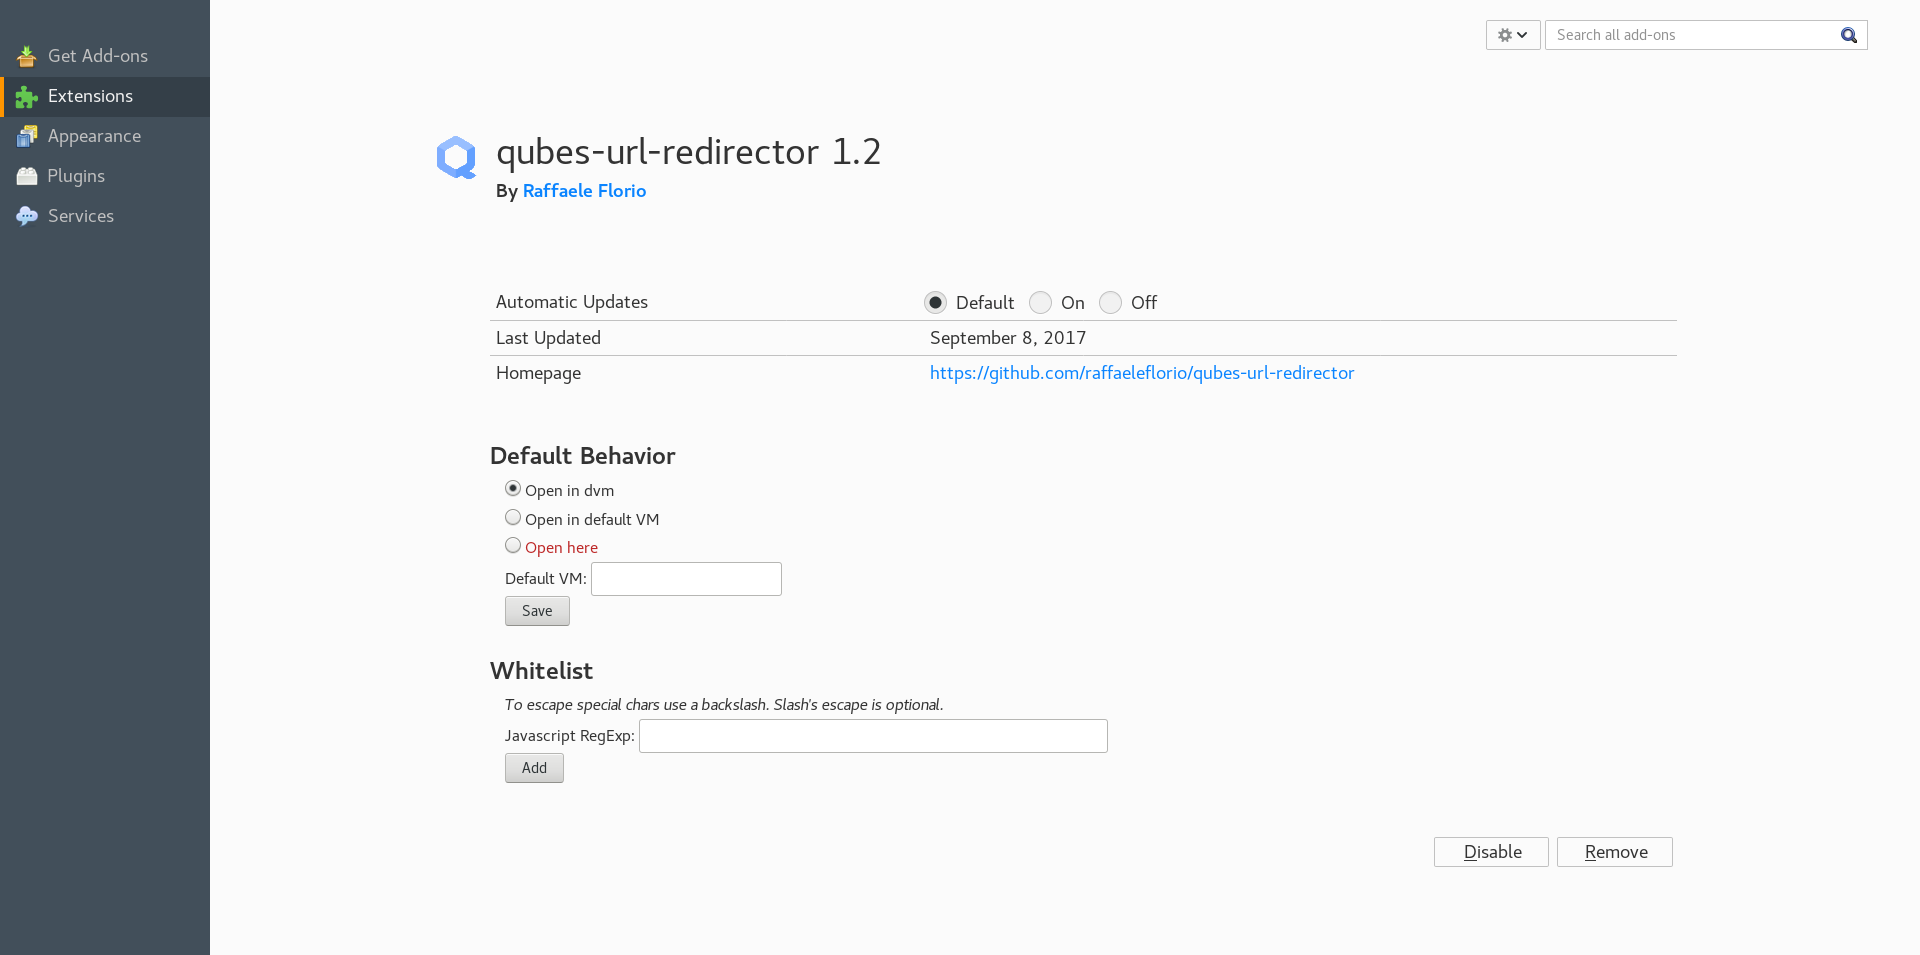
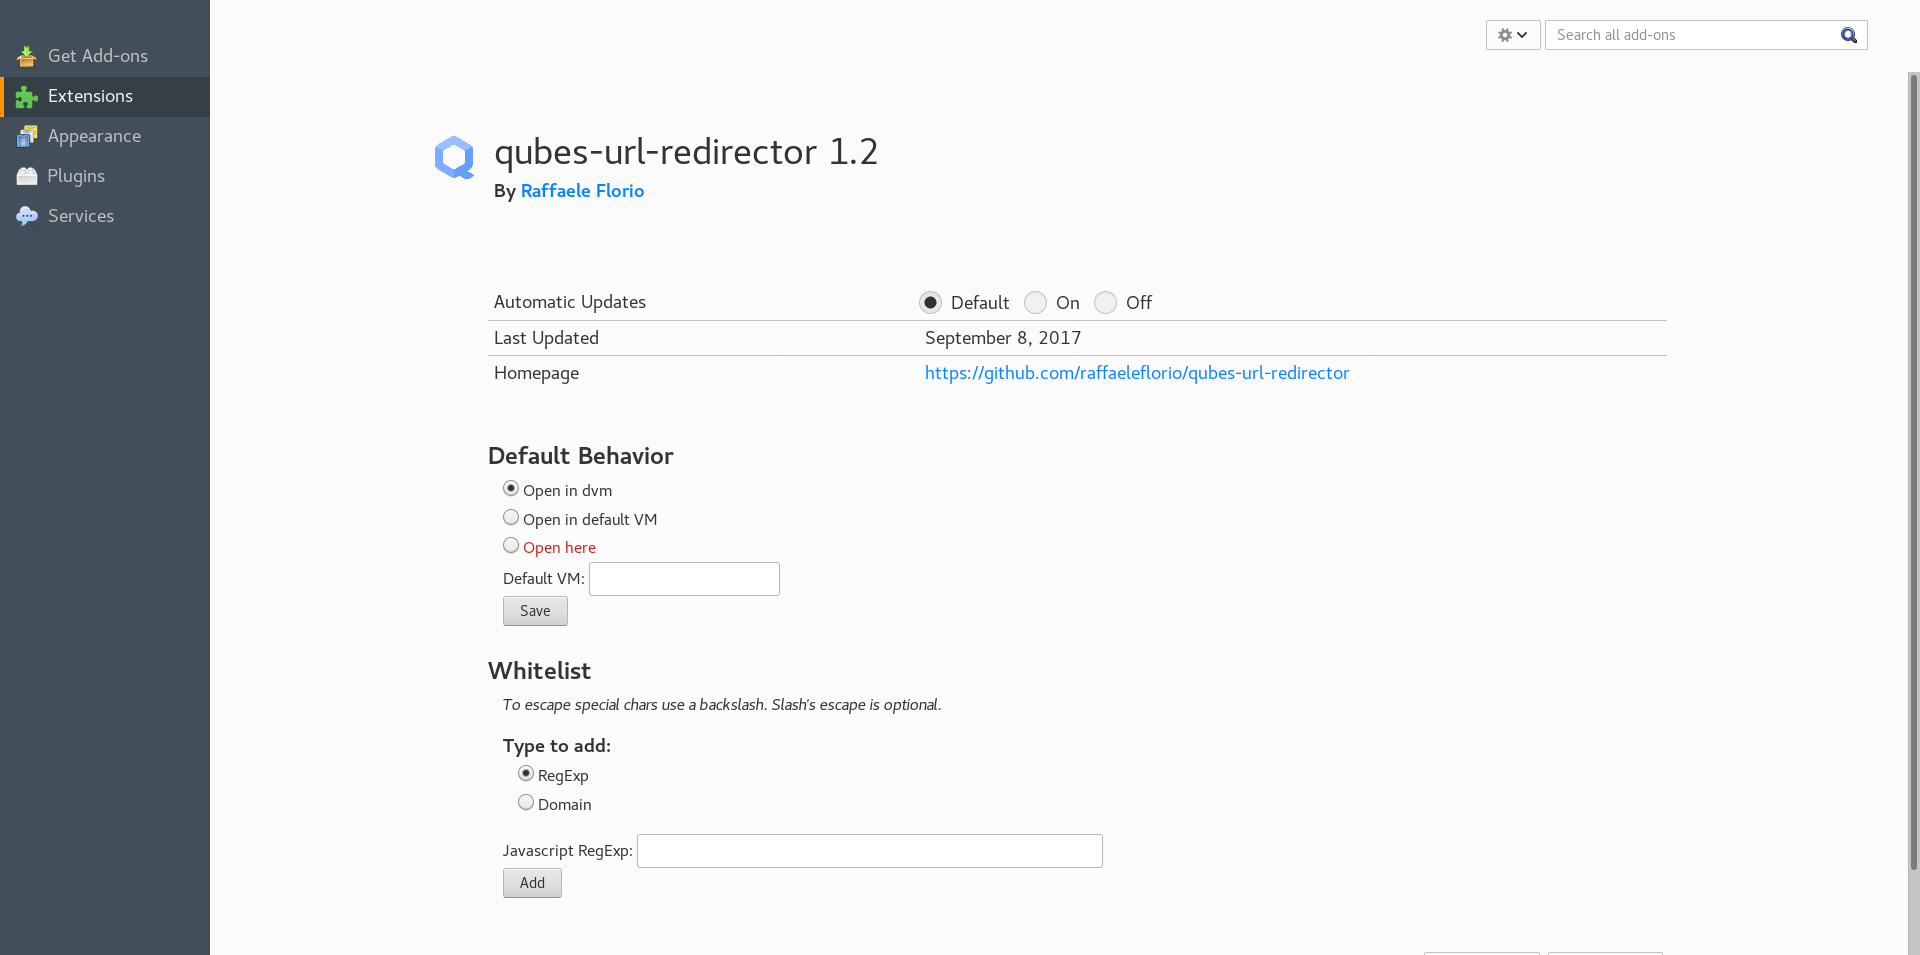
added radio 'Domain/RegExp'

diff --git a/options/settings.js b/options/settings.js
@@ -1,5 +1,7 @@
 const background = browser.extension.getBackgroundPage();
 const whitelistTbl = document.getElementById("whitelistTbl");
+const whitelistFrm = document.getElementById("whitelistFrm");
+let regex_prefix = "";
 
 
 function appendRegex(regex)
@@ -41,15 +43,18 @@ function addToWhitelist(e)
     
     form["regex"].value = "";
 
-    background.addToWhitelist(regex)
-	.then(
-	    () => {
-		alert("Saved successfully!");
-		appendRegex(regex);
-	    })
-	.catch(
-	    () => alert("Failed to save!")
-	);
+    if (form["type"].value == "domain" && !(/^(?:\w\.)*\w+\.\w+/.test(regex)))
+	alert("Invalid domain!");
+    else
+	background.addToWhitelist(regex_prefix+regex)
+	    .then(
+		() => {
+		    alert("Saved successfully!");
+		    appendRegex(regex_prefix+regex);
+		})
+	    .catch(
+		() => alert("Failed to save!")
+	    );
 
     e.preventDefault();
 }
@@ -145,4 +150,17 @@ restoreSettings();
 restoreWhitelist();
 
 document.getElementById("settingsFrm").addEventListener("submit", saveSettings);
-document.getElementById("whitelistFrm").addEventListener("submit", addToWhitelist);
+
+whitelistFrm.addEventListener("submit", addToWhitelist);
+
+whitelistFrm["type"].forEach(radio => radio.addEventListener("change", e => {
+    
+    if (e.target.value == "regex") {
+	document.getElementById("wl_label_type").textContent = " Javascript RegExp: ";
+	regex_prefix = "";
+    }
+    else {
+	document.getElementById("wl_label_type").textContent = " Domain: www.";
+	regex_prefix = "^(?:https?://)?(?:www\\.)?";
+    }
+}));

diff --git a/options/settings.html b/options/settings.html
@@ -30,7 +30,14 @@
       <h2> Whitelist </h2>
       <em> To escape special chars use a backslash. Slash's escape is optional.</em>
       <form id="whitelistFrm">
-	<label> Javascript RegExp: <input type="text" name="regex"></label><br>
+	<section>
+	  <h3> Type to add: </h3>
+	  <label><input type="radio" name="type" value="regex" checked> RegExp </label><br>
+	  <label><input type="radio" name="type" value="domain"> Domain </label>
+	</section>
+
+	<label id="wl_label_type" for="wl_regex"> Javascript RegExp: </label>
+	<input type="text" id="wl_regex" name="regex"><br>
 	<button type="submit">Add</button>
       </form>
 

diff --git a/options/settings.css b/options/settings.css
@@ -16,14 +16,6 @@ section > * {
     padding-left: 15px;
 }
 
-article > * {
-    padding-left: 15px;
-}
-
-dl > dd {
-    padding-left: 30px;
-}
-
 h1, h2, h3, h4, h5, h6 {
     line-height: 1.2;
     margin-bottom: 5px;
